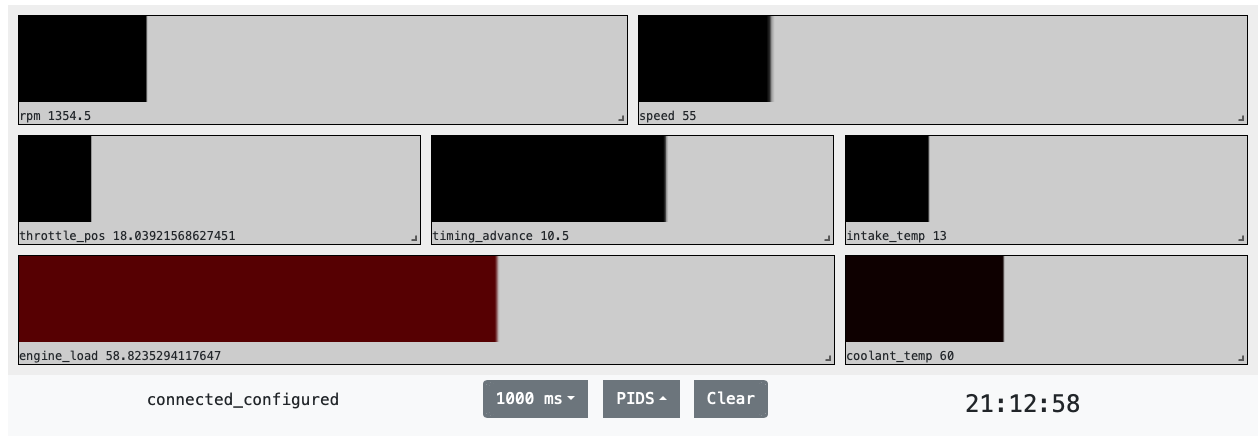
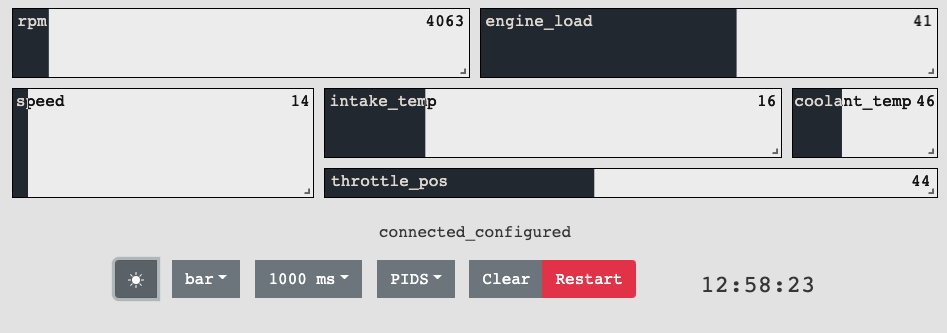
update readme

diff --git a/README.md b/README.md
@@ -13,6 +13,22 @@ In the beginning I only wanted to make a simple tachometer, but then decided to 
 ### **Note:**
 The project is still in development and was tested only on several cars. GUI would use some enhancements - but for now it's the simplest working solution.
 #
+
+## Features
+* Automatically finds and configures ELM device
+* Currently supported OBD PIDs:
+    * RPM
+    * Vehicle speed
+    * Intake temp
+    * Throttle position
+    * Timing advance
+    * Engine load
+    * Coolant temp
+* Selectable intervals for data collection
+* Light and night mode GUI
+* Draggable and resizable gauges
+* Selections of gauges and layout are not lost upon restart
+* User configurable max RPM range
 ## High level overview
 ![alt text](.github/readme/block.png)
 
@@ -94,5 +110,5 @@ TODO:
 * [ ] Handle reconnect when engine is off
 * [x] Longer tests with car to test stability of the application, deadlocks etc
 * [x] Add support for ELM devices from different manufacturers
-* [ ] Enhance GUI: support for different gauge types. Make it more flashy? Add theme support?
+* [x] Enhance GUI: support for different gauge types. Make it more flashy? Add theme support?
 * [ ] Create `img` file with all above configuration ready to burn on SD card for RPi, [guide](https://medium.com/platformer-blog/creating-a-custom-raspbian-os-image-for-production-3fcb43ff3630) or can Nerves do the same?
